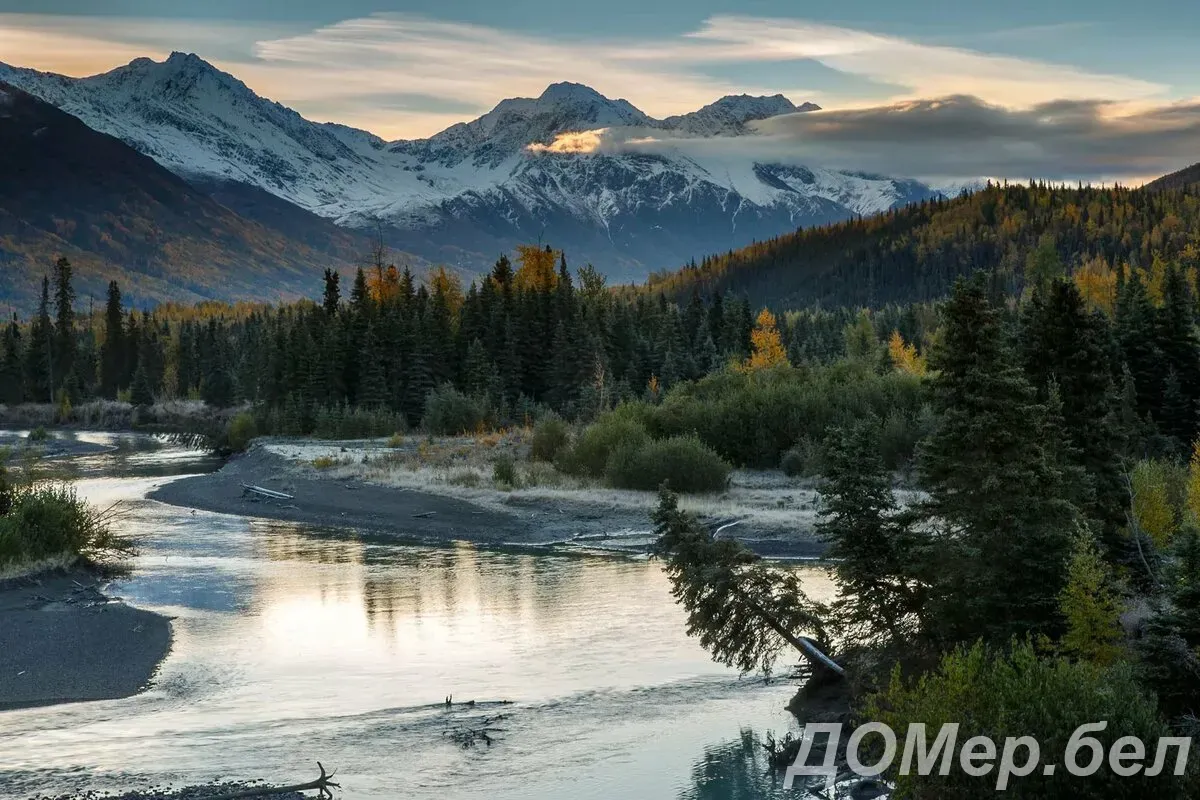
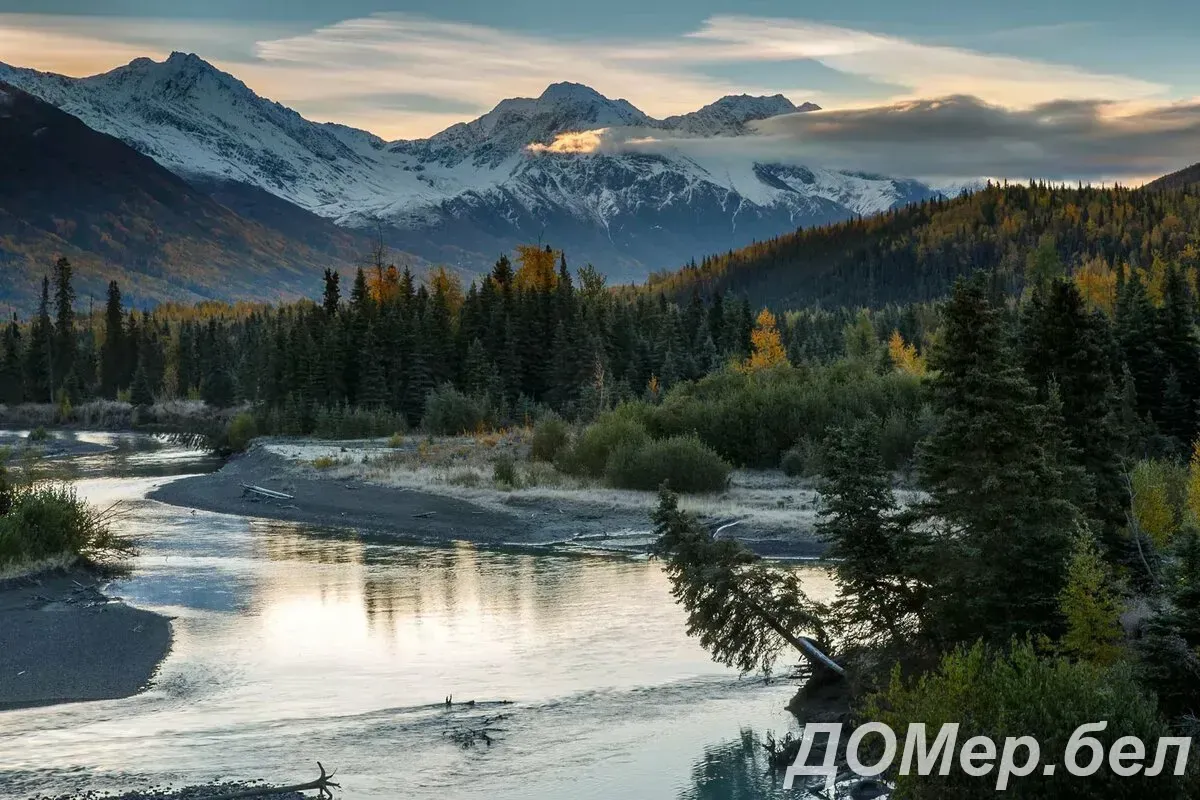
merged

Changed region(s): [[0.6475, 0.9062, 1.0, 1.0]]

diff --git a/advertisement/templates/advertisementAdd.html b/advertisement/templates/advertisementAdd.html
@@ -67,9 +67,9 @@
     </section>
     <section class="advertisement">
         <ul class="advertisement__list">
-            {% for card in page_obj %}
+            {% for card in page_obj|dictsortreversed:"raise_in_search" %}
                 <li>
-                    <article class="advertisement__list-item active__item">
+                    <article class="advertisement__list-item {% if card.highlight_ad %} active__item {% endif %}">
                         <a href="{% url 'advertisement_details' card.id %}" class="advertisement__list-item-img">
                             <img src="{% if card.preview_image %} {{ card.preview_image.url }} {% else %}{% static 'img/no_image.jpg' %}{% endif %}"
                                  alt="{% if card.preview_image %} {{ card.preview_image.url }} {% else %}{% static 'img/no_image.jpg' %}{% endif %}">
@@ -106,24 +106,31 @@
                                 </li>
                             </ul>
                             <ul class="advertisement__list-item-action">
+                                {% if card.special_accommodation %}
                                 <li class="advertisement__list-item-action-item">
                                     <img src="{% static "img/special.png" %}" alt="">
                                 </li>
+                                {% endif %}
+                                {% if card.vip %}
                                 <li class="advertisement__list-item-action-item">
                                     <img src="{% static "img/VIP.png" %}" alt="">
                                 </li>
+                                {% endif %}
+                                {% if card.highlight_ad %}
                                 <li class="advertisement__list-item-action-item">
                                     <img src="{% static "img/highlight.png" %}" alt="">
                                 </li>
+                                {% endif %}
+                                {% if card.raise_in_search %}
                                 <li class="advertisement__list-item-action-item">
                                     <img src="{% static "img/up.png" %}" alt="">
                                 </li>
+                                {% endif %}
                             </ul>
                         </div>
                     </article>
                 </li>
             {% endfor %}
-
         </ul>
         <div class="vip__wrap">
             <h2 class="vip__title">

diff --git a/advertisement/views.py b/advertisement/views.py
@@ -28,7 +28,7 @@ def get_advertisement_page(request):
     advertisement_queryset = Advertisement.objects.filter(is_active=True,
                                                           moderated=True, **region_filter).select_related(
         'category',
-        'region').order_by(order_by)
+        'region').order_by("-raise_in_search", order_by)
     category_queryset = Category.objects.add_related_count(Category.objects.root_nodes(),
                                                            Advertisement,
                                                            'category',
